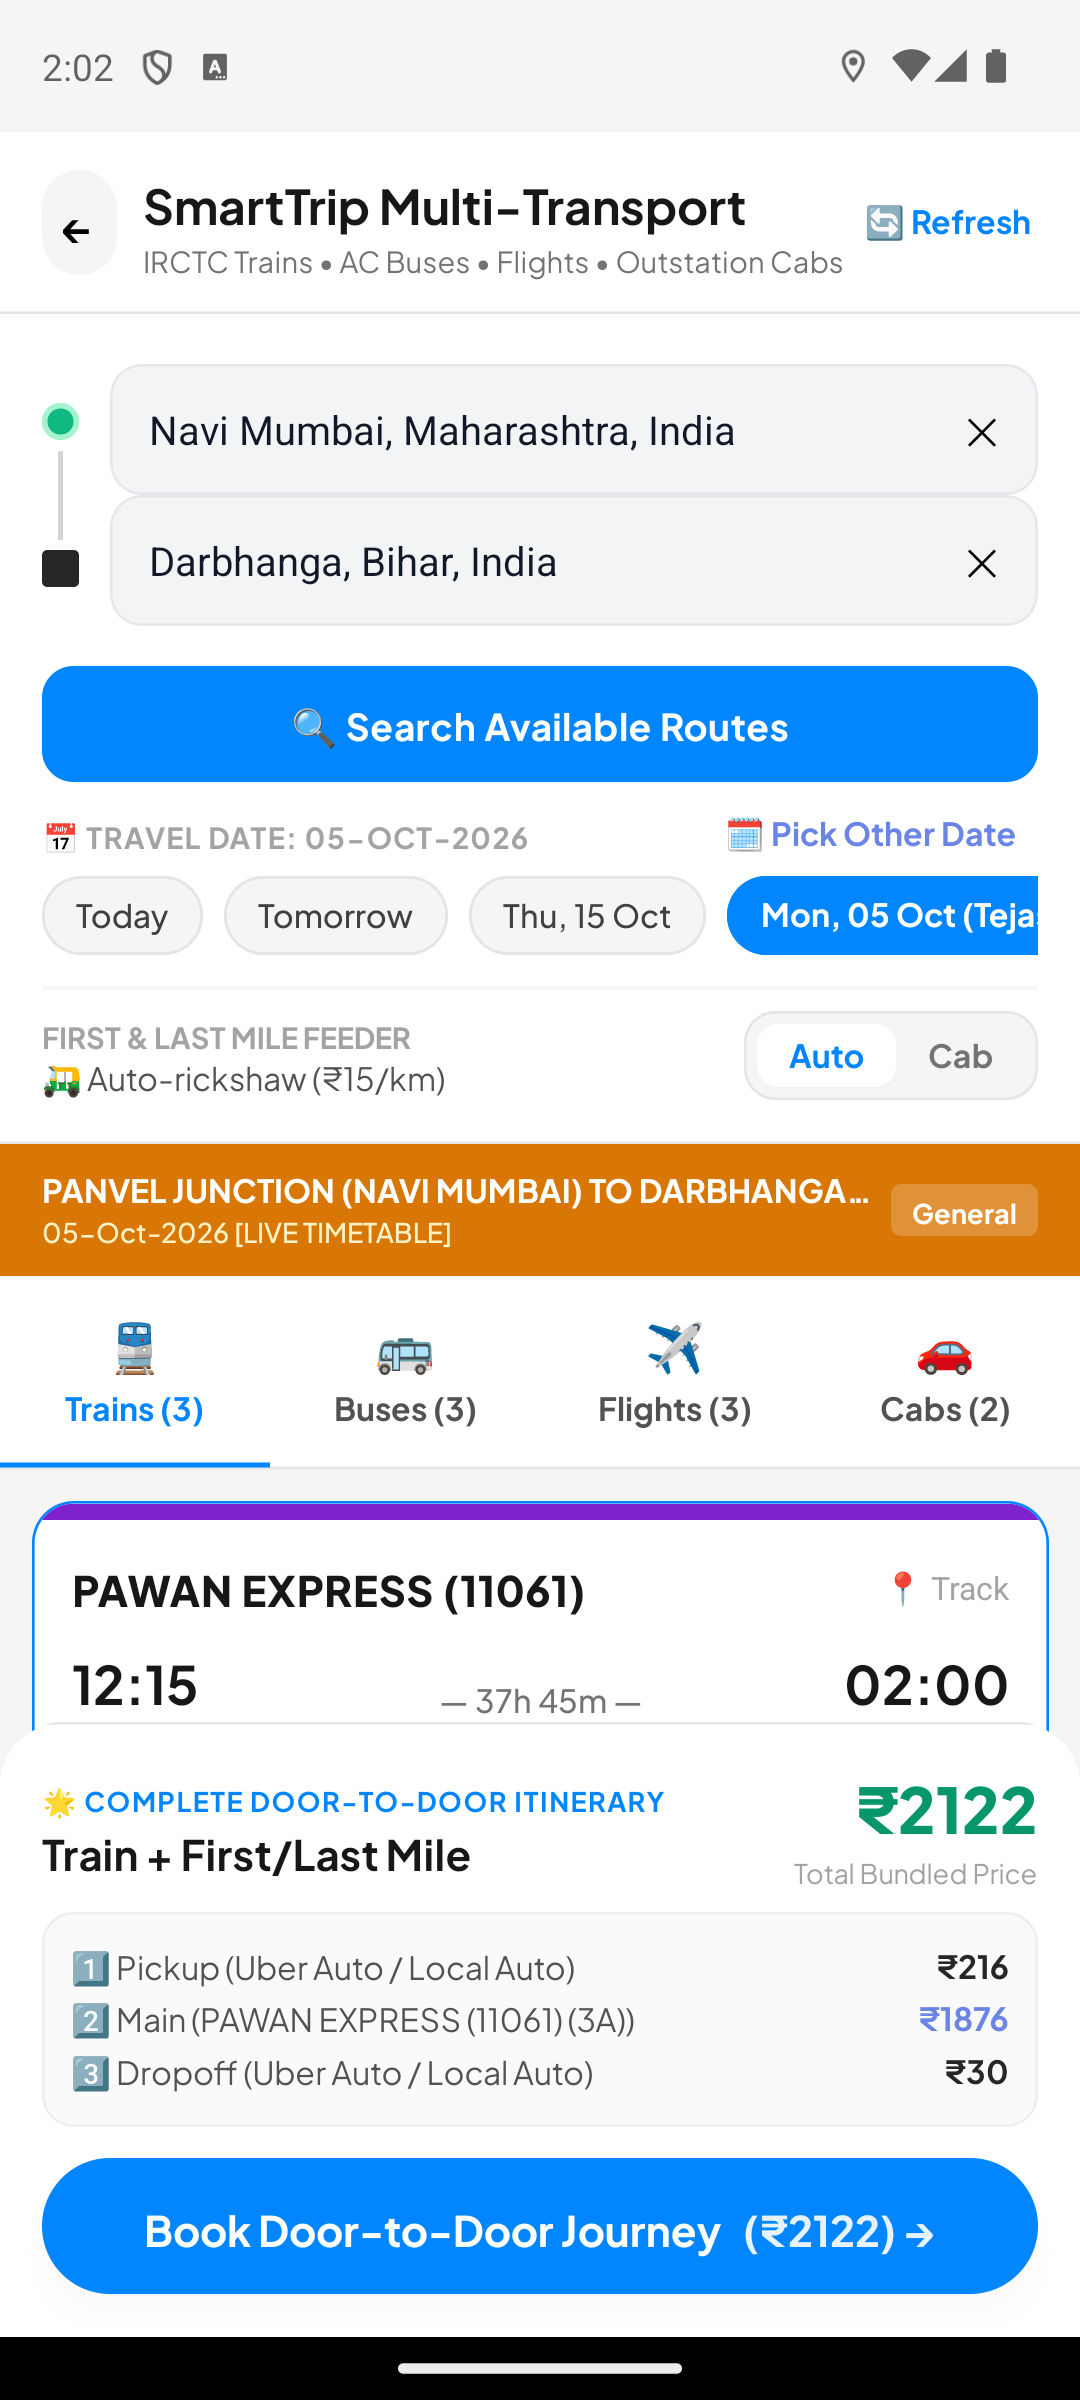
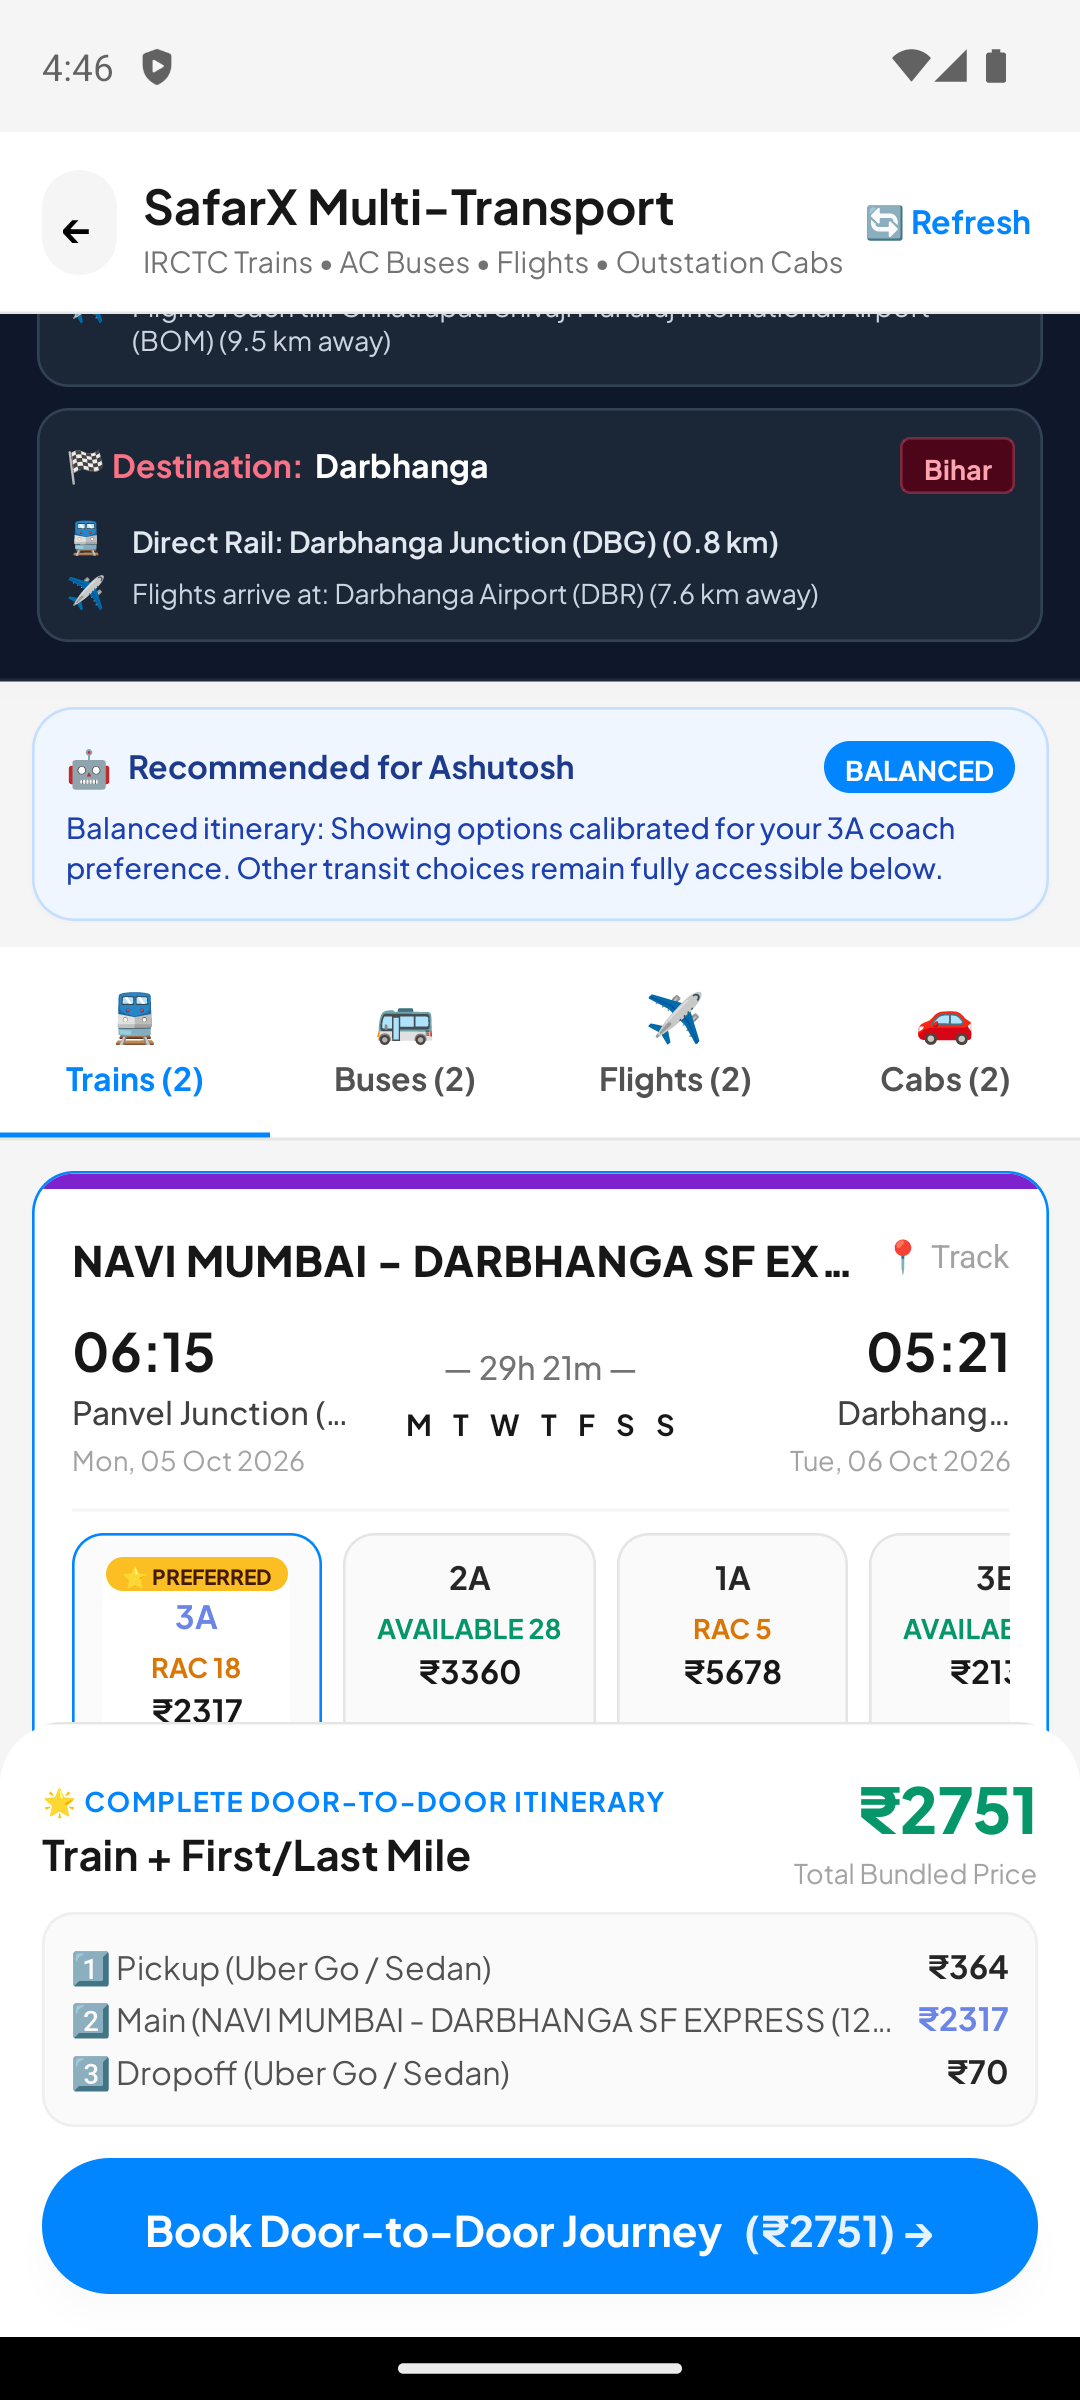
docs: replace screenshots with live SafarX Multi-Transport captures and update app branding

diff --git a/uber-clone/app/(root)/smarttrip/search.tsx b/uber-clone/app/(root)/smarttrip/search.tsx
@@ -39,12 +39,12 @@ export default function TravelSearchScreen() {
   const profileStore = useProfileStore();
   const params = useLocalSearchParams<{ origin?: string; destination?: string; date?: string }>();
 
-  const [origin, setOrigin] = useState(params.origin ? String(params.origin) : "");
-  const [destination, setDestination] = useState(params.destination ? String(params.destination) : "");
+  const [origin, setOrigin] = useState(params.origin ? String(params.origin) : "Navi Mumbai, Maharashtra, India");
+  const [destination, setDestination] = useState(params.destination ? String(params.destination) : "Darbhanga, Bihar, India");
   const [originCoords, setOriginCoords] = useState<{ lat?: number; lon?: number }>({});
   const [destinationCoords, setDestinationCoords] = useState<{ lat?: number; lon?: number }>({});
 
-  const [travelDate, setTravelDate] = useState(params.date ? String(params.date) : "15-Oct-2026");
+  const [travelDate, setTravelDate] = useState(params.date ? String(params.date) : "05-Oct-2026");
   const [showDatePicker, setShowDatePicker] = useState(false);
   const [feederMode, setFeederMode] = useState<"AUTO" | "CAB">("AUTO");
 
@@ -270,7 +270,7 @@ export default function TravelSearchScreen() {
           </TouchableOpacity>
           <View>
             <Text className="text-lg font-JakartaBold text-neutral-900">
-              SafarX Multimodal Transit
+              SafarX Multi-Transport
             </Text>
             <Text className="text-[11px] font-Jakarta text-neutral-500">
               IRCTC Trains • AC Buses • Flights • Outstation Cabs

diff --git a/uber-clone/src/features/smarttrip/lib/api.ts b/uber-clone/src/features/smarttrip/lib/api.ts
@@ -1069,7 +1069,7 @@ export async function fetchCorridorInventory(params: {
       {
         cab_id: "cab-sedan",
         vehicle_type: "AC Sedan (Dzire / Etios)",
-        operator: "SmartTrip Outstation Sedan",
+        operator: "SafarX Outstation Sedan",
         duration_str: "10h 30m",
         distance_km: 520.0,
         fare: 8320,
